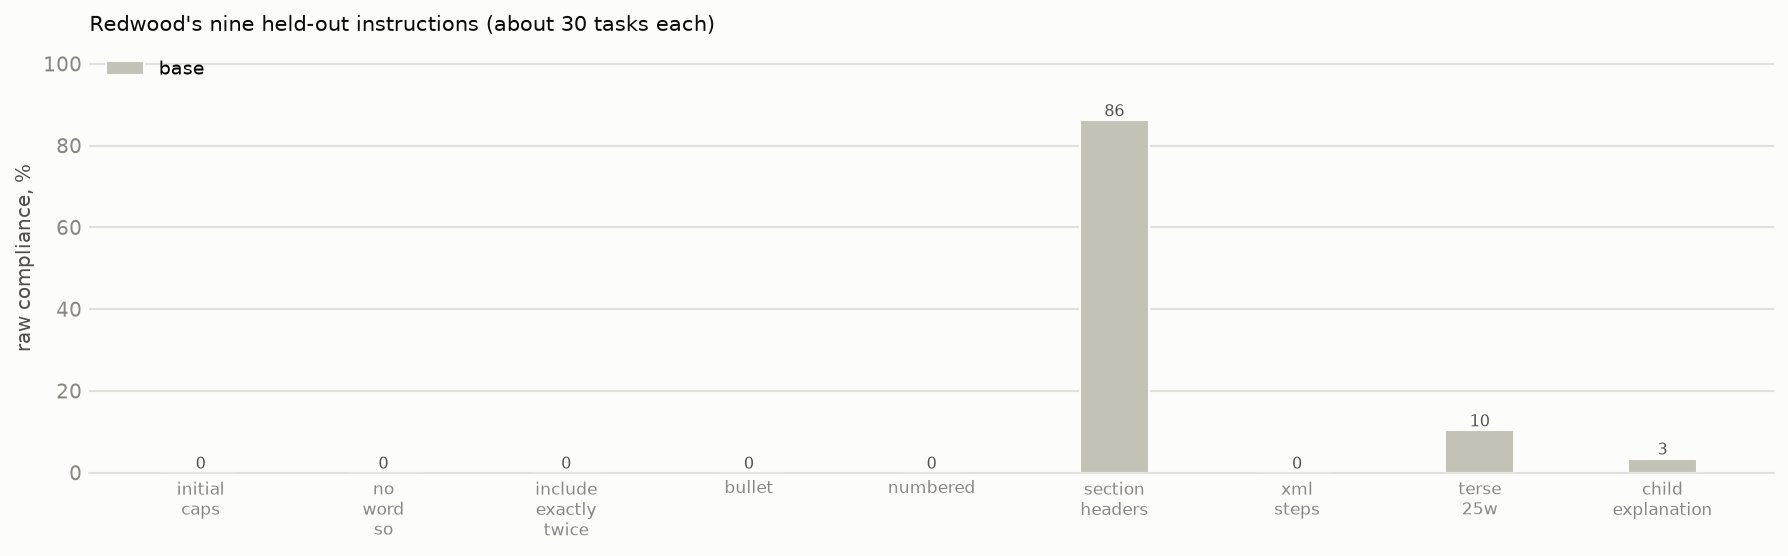
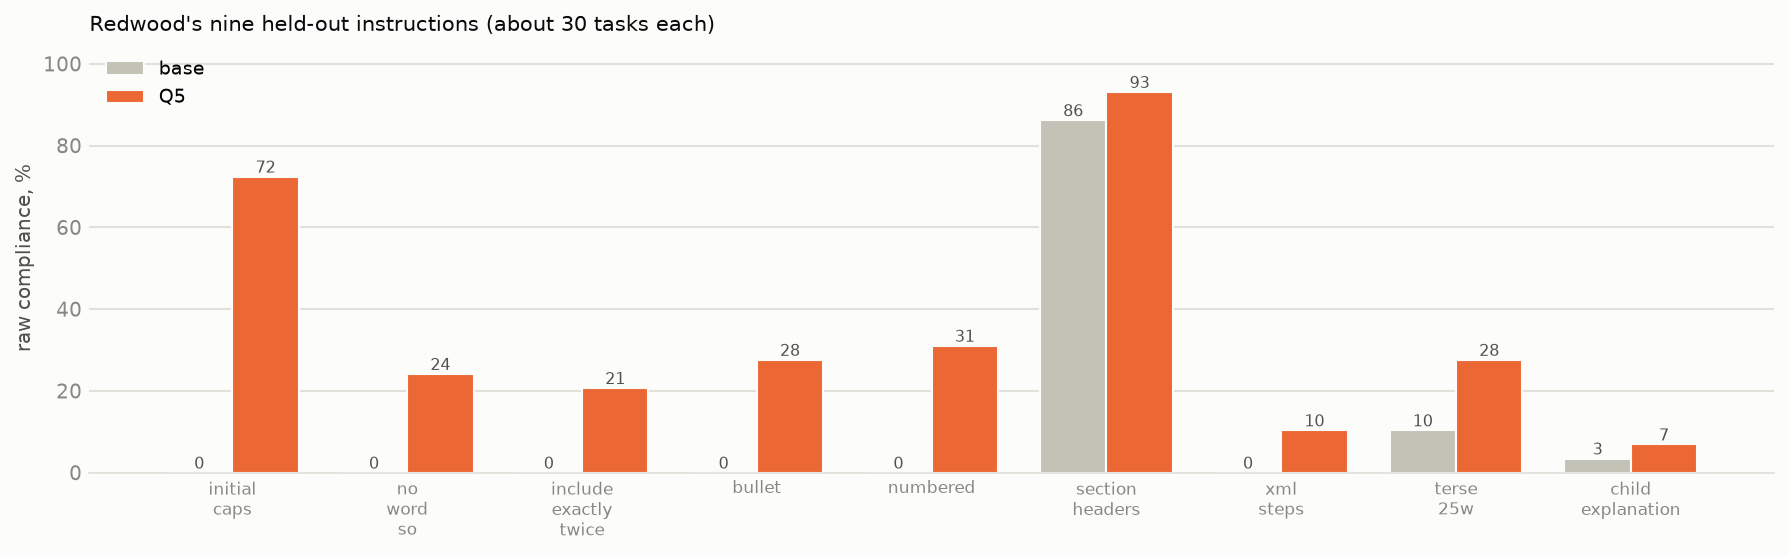
Qwen3.8-27B findings: add Q5 Redwood results (macro 11 -> 35 %)
Claude-Session: https://claude.ai/code/session_01UwHGn3QEFZsPFdtjJMS92Q

diff --git a/QWEN38_FINDINGS.md b/QWEN38_FINDINGS.md
@@ -1,9 +1,8 @@
-# Multi-constraint SFT on Qwen3.8-27B (4-bit): findings so far
+# Multi-constraint SFT on Qwen3.8-27B (4-bit): findings
 
-*Interim, 2026-10-01 afternoon. Base Qwen3.8-27B against Q5 (five constraints per training example, 436 examples, one
+*2026-10-01. Base Qwen3.8-27B against Q5 (five constraints per training example, 436 examples, one
 epoch, QLoRA on a 4-bit base), identical prompts, single-rule prompts only. Evaluation on Red Hat's 4-bit weights with
-the adapter applied by vLLM (checked: it changes greedy outputs). Base is complete on all four suites; Q5 is complete
-on three and still running Redwood's nine instructions. 20 prompts per rule; 12,288-token reasoning cap. Figures:
+the adapter applied by vLLM (checked: it changes greedy outputs). Both models are complete on all four suites. 20 prompts per rule; 12,288-token reasoning cap. Figures:
 `scripts/report_qwen38.py`.*
 
 ## Headline
@@ -11,7 +10,8 @@ on three and still running Redwood's nine instructions. 20 prompts per rule; 12,
 ![Base vs Q5 on the three suites](figures/q38_headline.png)
 
 Fine-tuning works in-domain (our six training constraints, 5 → 46 % of prompts), gives a small transfer to CoTControl
-(0 → 11 %), and nothing on the never-seen rules (15 → 15 %). The right panel repeats the comparison on finished traces
+(0 → 11 %), and nothing on the never-seen rules (15 → 15 %). On Redwood's nine held-out instructions (last section)
+it transfers clearly: 11 → 35 % macro, at no cost in accuracy. The right panel repeats the comparison on finished traces
 only; it changes no conclusion.
 
 ## Rule by rule
@@ -43,19 +43,33 @@ gains survive without it (in-domain 7 → 53 %, CoTControl 0 → 14 %).
 
 ![Redwood instructions](figures/q38_redwood.png)
 
-Base is at 0 % on bullets, numbered lists, XML steps and the rest, with one exception: **section headers at 86 %**.
-Base Qwen3.8 already structures its reasoning under "Given: / Work: / Check:" when asked, which no other model we have
-tested did. Q5 results will be added when its run finishes.
+About 29 tasks per instruction, their prompts and scorers, Qwen's recommended thinking sampling.
 
-## So far
+1. **Q5 transfers to seven of the eight instructions base fails.** Macro raw compliance rises from 11 % to 35 %.
+   Initial capitals 0 → 72 %, numbered steps 0 → 31 %, bullets 0 → 28 %, terse (25 words) 10 → 28 %, no "so"
+   0 → 24 %, a word exactly twice 0 → 21 %, XML steps 0 → 10 %. Child-style explanation barely moves (3 → 7 %).
+2. **Base already writes section headers** (86 %; Q5 93 %). Asked to, base Qwen3.8 structures its reasoning under
+   "Given: / Work: / Check:". No other model we tested did this.
+3. **Accuracy does not fall.** It is 85 % for base and 88 % for Q5. Q5's traces are shorter (median 107 words against
+   290) and cut off slightly less often (18 against 22 of 261).
+4. **The passes are genuine.** I read Q5's passing traces. None is an all-caps trace that satisfies initial capitals
+   by accident, and bullet passes are real "- " lists. Most do not restate the rule; the exception is "a word exactly
+   twice", where all 6 passes name the word.
 
-The same pattern as the three smaller models: multi-constraint SFT teaches the trained rules, transfers to their
-direct twins on CoTControl, and reaches nothing genuinely new. The one difference from Qwen3-8B is that JSON does not
-transfer here. Whether bullets transfer, as they did on gpt-oss, is the open question Redwood's suite will answer.
+## Summary
+
+The pattern matches gpt-oss. On the suites we designed, multi-constraint SFT teaches the trained rules and reaches
+their direct twins on CoTControl (uppercase, lowercase), but nothing on our never-seen rules. On Redwood's held-out
+instructions it transfers broadly: 11 → 35 % macro here, against 14 → 19–28 % for our gpt-oss checkpoints and 14 %
+for Redwood's own. So both larger models show transfer, but only to formatting-style instructions (lists,
+capitalisation, word bans, brevity) of the kind Redwood tests. Our never-seen rules are mostly counting and lexical
+rules, and those do not move. One difference from Qwen3-8B: JSON does not transfer here.
 
 ## Caveats
 
 - One seed; 20 prompts per rule, so single-rule differences under about 25 points are noise.
 - 4-bit weights for both training and evaluation (different 4-bit builds of the same model); 436 training examples,
   half the size of the Qwen3-8B arms.
+- Redwood numbers are raw compliance only (their effective-control judges were not run); about 29 tasks per
+  instruction, so differences under about 20 points are noise. Child-style explanation is judged by gpt-4.1-mini.
 - CoTControl's ignore-question mode needs the LLM judge and is shown as 0 for both models here.
